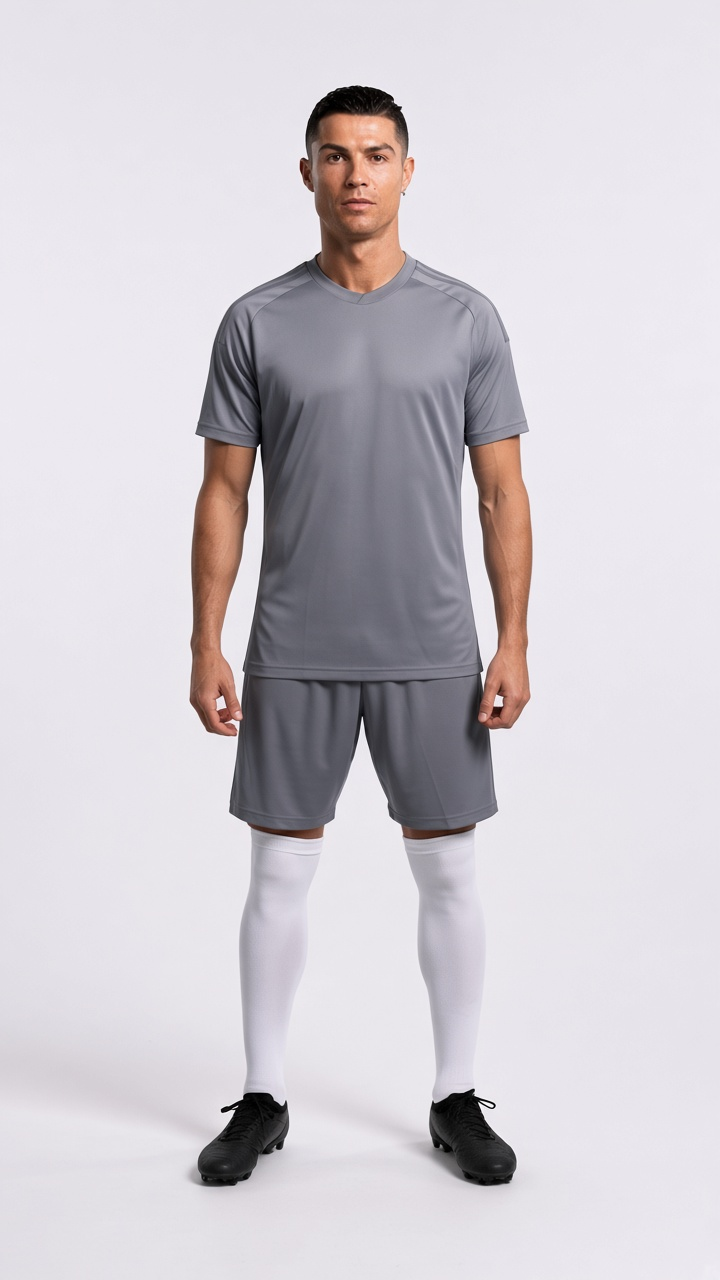
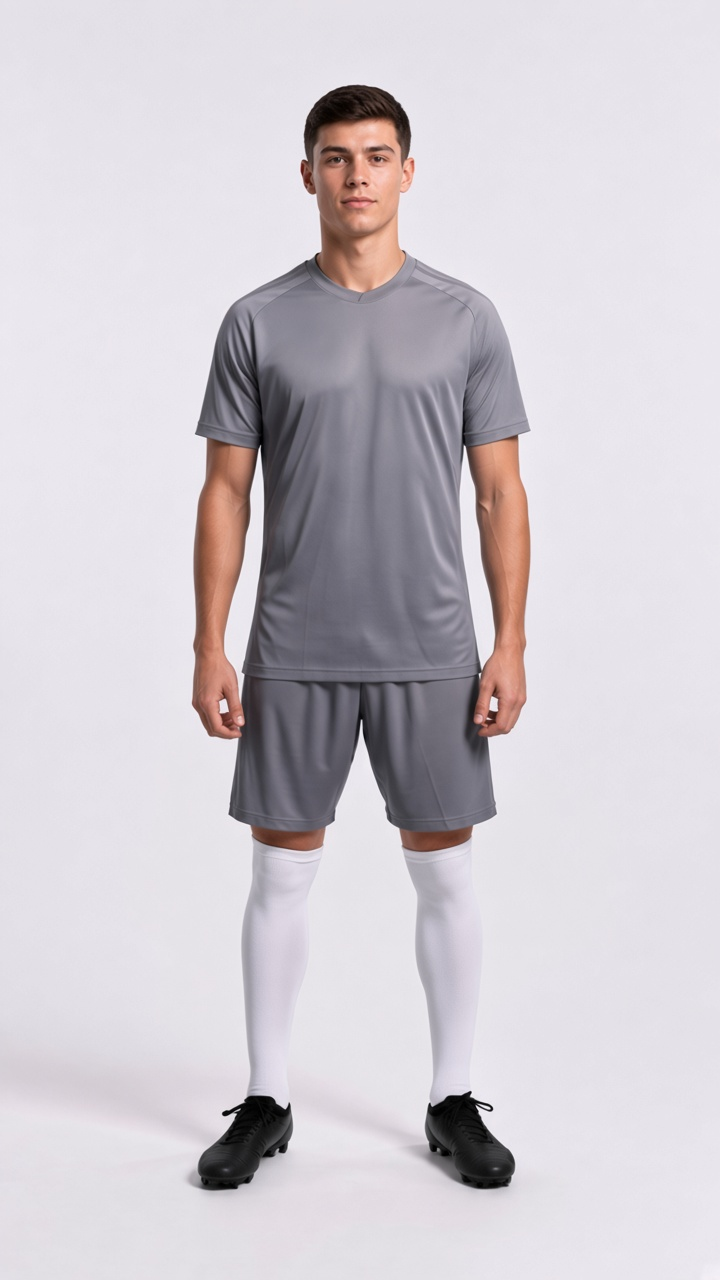
Make Muhammed Zaid clean-shaven and younger (age 20).

diff --git a/lib/roster.ts b/lib/roster.ts
@@ -56,7 +56,7 @@ export const SPECIAL_SPECS: RosterSpec[] = [
     nationality: "Suudi Arabistan",
     nationality_code: "sa",
     position: "FV",
-    age: 22,
+    age: 20,
     attack: 99,
     defense: 70,
     tier: "special",
